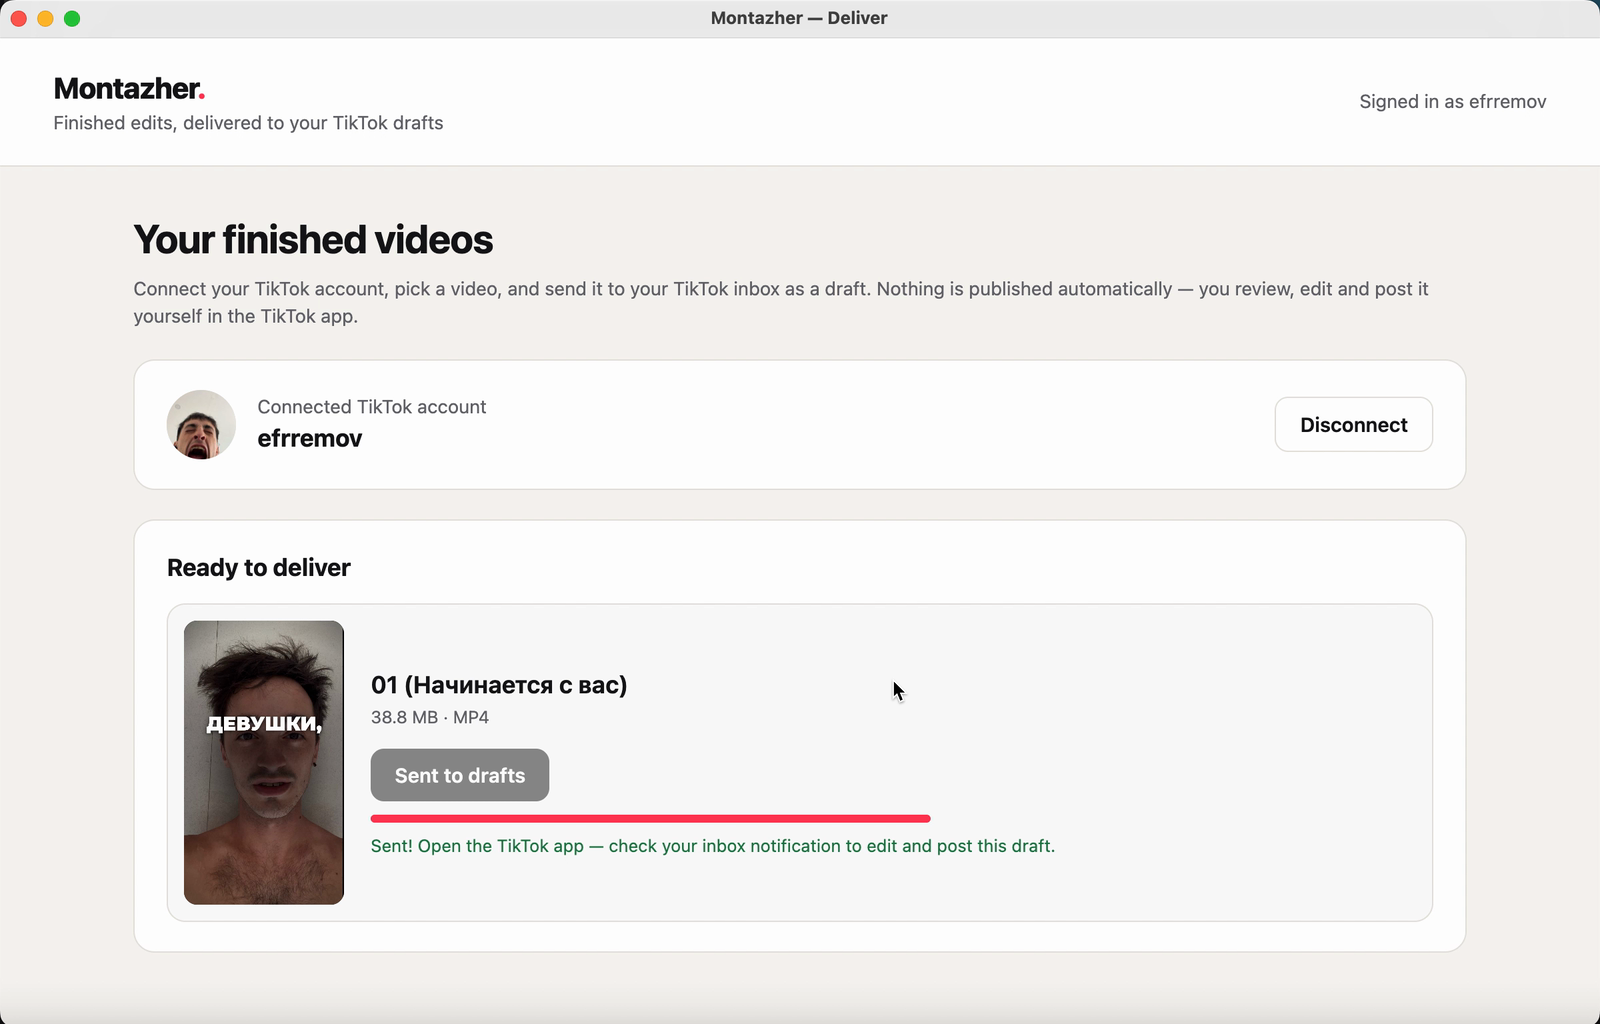
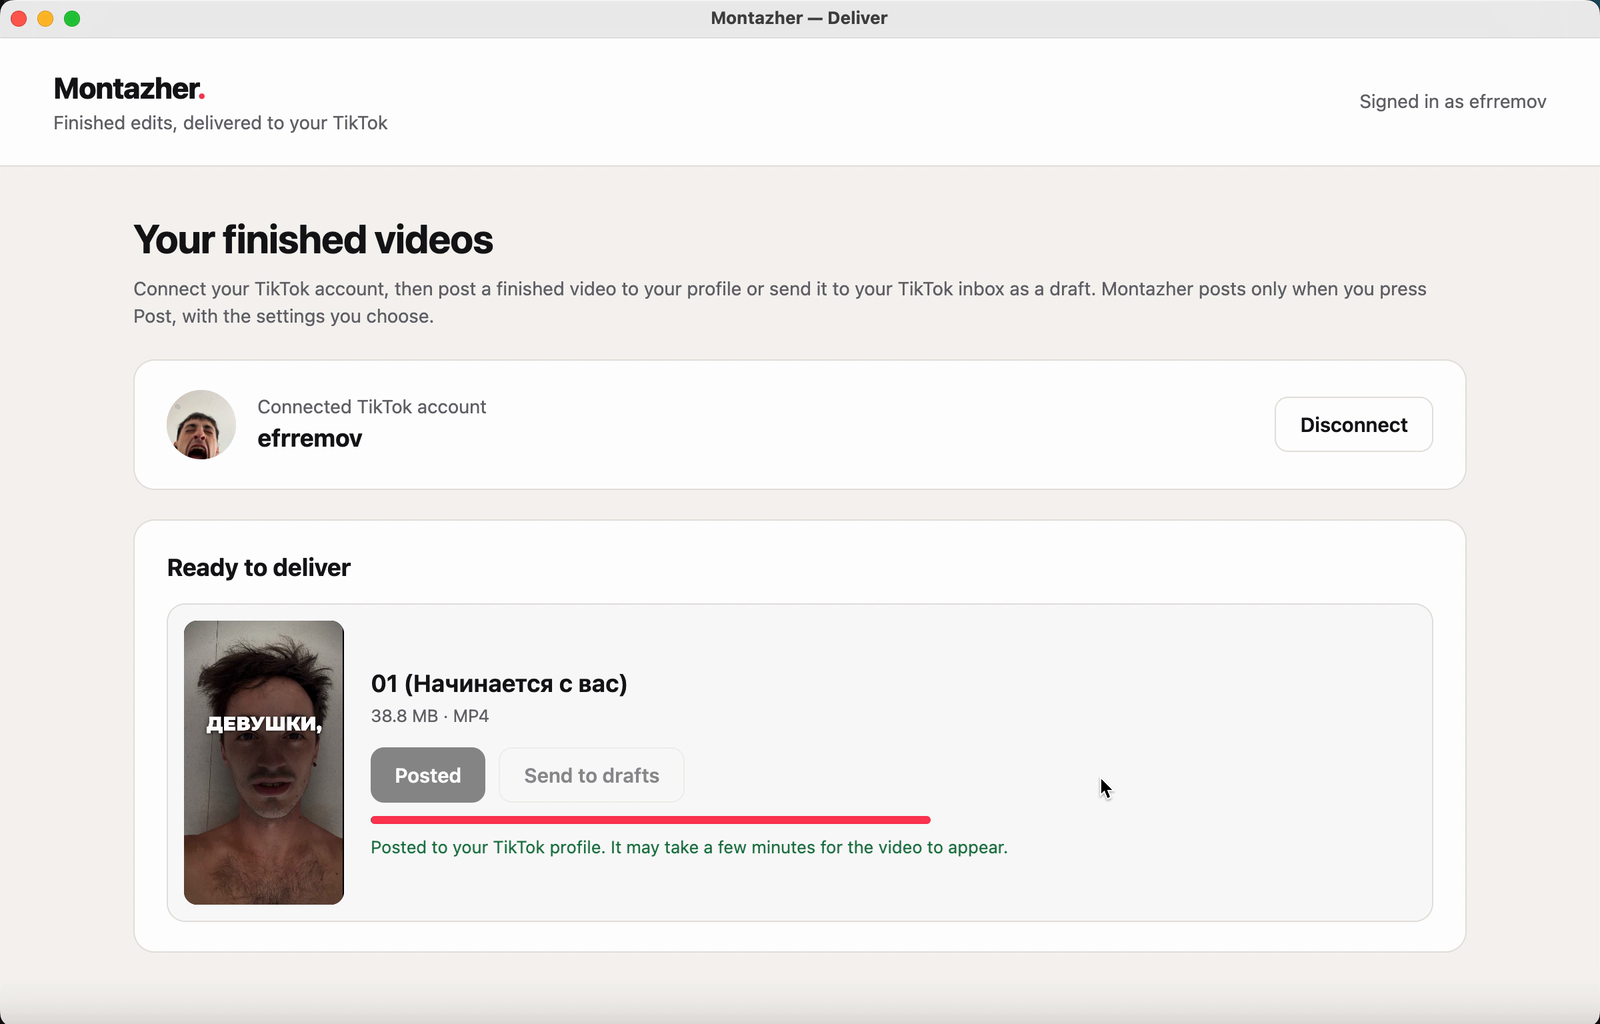
Add files via upload

Changed region(s): [[0.2188, 0.6562, 0.6562, 0.8438], [0.0938, 0.25, 0.875, 0.3125], [0.25, 0.0938, 0.2812, 0.125]]

diff --git a/how-it-works.html b/how-it-works.html
@@ -6,20 +6,21 @@
 <header class="top"><div class="in"><a class="logo" href="index.html">Montazher<span>.</span></a><nav><a href="index.html">Home</a><a href="services.html">Services</a><a href="how-it-works.html" class="on">How it works</a><a href="privacy.html">Privacy Policy</a><a href="terms.html">Terms of Service</a><a href="contact.html">Contact</a></nav></div></header>
 
 <main class="wrap doc" style="max-width:960px"><h1>How delivery to TikTok works</h1>
-<p class="upd">Montazher uses the official TikTok Login Kit and Content Posting API (upload to drafts).</p>
+<p class="upd">Montazher uses the official TikTok Login Kit and Content Posting API (direct post and upload to drafts).</p>
 <div class="steps">
 <div class="step"><h3>Open the Montazher app</h3><p>The Montazher desktop app shows the list of your finished videos.</p></div>
 <div class="step"><h3>Continue with TikTok</h3><p>You sign in on TikTok's own authorization page and approve the requested permissions. Montazher never sees your TikTok password.</p></div>
-<div class="step"><h3>Choose a video and send it to drafts</h3><p>Montazher shows which TikTok account is connected (your display name and avatar). You press <b>Send to TikTok drafts</b>, and the video file is uploaded directly from your computer to TikTok.</p></div>
-<div class="step"><h3>Finish and post in TikTok</h3><p>TikTok sends you an inbox notification. You open the draft in the TikTok app, edit it, add a caption and decide whether and when to post it.</p></div>
+<div class="step"><h3>Post a video</h3><p>Press <b>Post to TikTok</b>. Montazher shows the account it will post to, a preview, and the post settings: a title, who can view the video (no default is pre-selected), whether others may comment, duet or stitch (all off by default), and a disclosure for promotional content. The video is posted only when you press <b>Post</b>.</p></div>
+<div class="step"><h3>Or send it to your drafts</h3><p>Press <b>Send to drafts</b>. TikTok sends you an inbox notification; you open the draft in the TikTok app, edit it and post it yourself.</p></div>
 </div>
 <div class="shot"><img src="app.png" alt="The Montazher app: connected TikTok account and a finished video ready to be sent to TikTok drafts"></div>
 <h2>Permissions we request</h2>
 <table><tr><th>Permission</th><th>Why Montazher needs it</th></tr>
 <tr><td><b>user.info.basic</b></td><td>To show your display name and avatar, so you can see which TikTok account will receive the video before sending it.</td></tr>
-<tr><td><b>video.upload</b></td><td>To upload the finished video you selected to your TikTok drafts (inbox). Nothing is published automatically.</td></tr></table>
+<tr><td><b>video.upload</b></td><td>To upload the finished video you selected to your TikTok drafts (inbox), when you choose <b>Send to drafts</b>.</td></tr>
+<tr><td><b>video.publish</b></td><td>To post the finished video you selected to your TikTok profile, with the title, visibility and interaction settings you choose, when you press <b>Post</b>.</td></tr></table>
 <h2>What Montazher does not do</h2>
-<ul><li>It does not publish or schedule posts on your behalf.</li><li>It does not read your existing videos, followers, messages or analytics.</li><li>It does not upload anything you did not choose.</li></ul>
+<ul><li>It does not post anything without your action, and it does not schedule posts.</li><li>It does not read your existing videos, followers, messages or analytics.</li><li>It does not upload anything you did not choose.</li></ul>
 <h2>Disconnecting</h2>
 <p>Press <b>Disconnect</b> in the Montazher app to revoke access. You can also remove Montazher at any time in the TikTok app: Settings and privacy → Security → Apps and services permissions.</p>
 </main>

diff --git a/index.html b/index.html
@@ -7,7 +7,7 @@
 
 <main class="wrap"><div class="hero">
 <h1>Your raw footage in. A finished, ready-to-post video out.</h1>
-<p>Montazher edits videos for creators and experts: talking-head videos, lessons and short-form clips. When the edit is done, we deliver the finished video straight to your TikTok drafts, so you stay in control of what gets posted.</p>
+<p>Montazher edits videos for creators and experts: talking-head videos, lessons and short-form clips. When the edit is done, you can post the finished video to TikTok or send it to your TikTok drafts, always with the settings you choose.</p>
 <a class="btn" href="services.html">See what we edit</a><a class="btn ghost" href="how-it-works.html">How delivery works</a>
 </div></main>
 <section><div class="wrap"><h2>What Montazher does</h2><p class="lead">We combine an editor's judgement with our own editing software that analyses speech, pauses and the picture in your footage.</p>
@@ -16,10 +16,10 @@
 <div class="card"><div class="num">SHORTS</div><h3>Lessons into short clips</h3><p>Long screen-recorded lessons are cut into self-contained vertical clips, each with one clear idea.</p></div>
 <div class="card"><div class="num">MOTION</div><h3>Graphics, music and sound</h3><p>Motion design that follows the meaning of what you say, licensed music and sound effects.</p></div>
 </div></div></section>
-<section><div class="wrap"><h2>Delivered to your TikTok drafts</h2>
-<p class="lead">Instead of sending large files through messengers, Montazher can upload a finished video to your own TikTok account as a draft. You sign in with TikTok, choose a video and press one button. The video appears in your TikTok inbox, where you add a caption, edit and post it yourself. Montazher never posts on your behalf.</p>
+<section><div class="wrap"><h2>Delivered to your TikTok</h2>
+<p class="lead">Instead of sending large files through messengers, Montazher delivers a finished video to your own TikTok account. You sign in with TikTok and choose a video. Then you either post it: you write the title, choose who can view it and whether others can comment, duet or stitch, and press Post. Or you send it to your TikTok inbox as a draft and finish it in the TikTok app. Montazher never posts without your action.</p>
 <a class="btn" href="how-it-works.html">Read how it works</a></div></section>
-<section><div class="wrap"><h2>Your data, simply</h2><p class="lead">We use your TikTok profile name and avatar only to show which account receives the video, and we upload only the videos you choose. Read our <a href="privacy.html">Privacy Policy</a> and <a href="terms.html">Terms of Service</a>.</p></div></section>
+<section><div class="wrap"><h2>Your data, simply</h2><p class="lead">We use your TikTok profile name and avatar only to show which account receives the video, and we post or upload only the videos you choose, with the settings you choose. Read our <a href="privacy.html">Privacy Policy</a> and <a href="terms.html">Terms of Service</a>.</p></div></section>
 
 <footer><div class="wrap"><div>© 2026 Montazher — video editing for creators. Contact: <a href="mailto:sir.vovchik.97@gmail.com">sir.vovchik.97@gmail.com</a></div><div><a href="privacy.html">Privacy Policy</a> · <a href="terms.html">Terms of Service</a> · <a href="contact.html">Contact</a></div></div></footer>
 </body></html>

diff --git a/privacy.html b/privacy.html
@@ -11,16 +11,16 @@
 <ul>
 <li><b>Footage and materials you send us</b> — recordings, scripts and other files you provide for editing.</li>
 <li><b>Contact information</b> — your name, email address or messenger contact that you use to communicate with us.</li>
-<li><b>Information from TikTok, when you connect your account</b> — your TikTok open ID, display name and avatar (permission <i>user.info.basic</i>), and the access and refresh tokens issued by TikTok so that the app can upload videos you choose (permission <i>video.upload</i>).</li>
+<li><b>Information from TikTok, when you connect your account</b> — your TikTok open ID, display name and avatar (permission <i>user.info.basic</i>), and the access and refresh tokens issued by TikTok so that the app can upload videos you choose to your drafts (permission <i>video.upload</i>) and post videos you choose to your profile (permission <i>video.publish</i>).</li>
 </ul>
 <p>We do not collect your TikTok password. We do not access your existing TikTok videos, followers, messages or analytics.</p>
 <h2>2. How we use information</h2>
 <ul>
 <li>To edit your videos and deliver the finished result to you.</li>
-<li>To show which TikTok account is connected and to upload the videos you select to your TikTok drafts.</li>
+<li>To show which TikTok account is connected, to post the videos you select with the settings you choose, and to upload videos you select to your TikTok drafts.</li>
 <li>To communicate with you about your projects.</li>
 </ul>
-<p>We do not sell your information, use it for advertising, or share it with third parties, except TikTok itself when you choose to upload a video, and where required by law.</p>
+<p>We do not sell your information, use it for advertising, or share it with third parties, except TikTok itself when you choose to post or upload a video, and where required by law.</p>
 <h2>3. Where information is stored</h2>
 <p>TikTok tokens are stored only on the computer where the Montazher app runs, in a file readable only by its user account, and are used only to call TikTok's official API. Video files are uploaded directly from that computer to TikTok. Your footage is stored on our working computers for as long as needed for your project.</p>
 <h2>4. Retention and deletion</h2>

diff --git a/terms.html b/terms.html
@@ -8,14 +8,14 @@
 <main class="wrap doc"><h1>Terms of Service</h1><p class="upd">Last updated: October 3, 2026</p>
 <p>These Terms govern your use of Montazher's video editing services and the Montazher app ("Services"). By using the Services you agree to these Terms.</p>
 <h2>1. The Services</h2>
-<p>Montazher edits videos from materials you provide and can deliver finished videos to you as files or, if you connect your TikTok account, as drafts in your TikTok inbox.</p>
+<p>Montazher edits videos from materials you provide and can deliver finished videos to you as files or, if you connect your TikTok account, post them to your TikTok profile or send them to your TikTok inbox as drafts.</p>
 <h2>2. Your content</h2>
 <ul><li>You keep all rights to the footage and materials you provide and to the finished videos made for you.</li>
 <li>You confirm that you have the rights to the materials you send us and that they do not violate the law or the rights of others.</li>
 <li>You give us permission to use your materials only to provide the Services to you.</li></ul>
 <h2>3. TikTok integration</h2>
 <ul><li>Connecting TikTok is optional. You sign in on TikTok's own page and can disconnect at any time.</li>
-<li>Montazher only uploads the videos you select to your drafts. You decide whether and when to publish them, and you are responsible for posted content.</li>
+<li>Montazher posts or uploads only the videos you select, only when you press Post or Send to drafts, and with the settings you choose. You are responsible for posted content.</li>
 <li>Your use of TikTok remains subject to TikTok's Terms of Service and Community Guidelines.</li></ul>
 <h2>4. Acceptable use</h2>
 <p>You may not use the Services to create or distribute illegal, infringing, hateful or adult content, spam, or content that violates TikTok's policies.</p>
